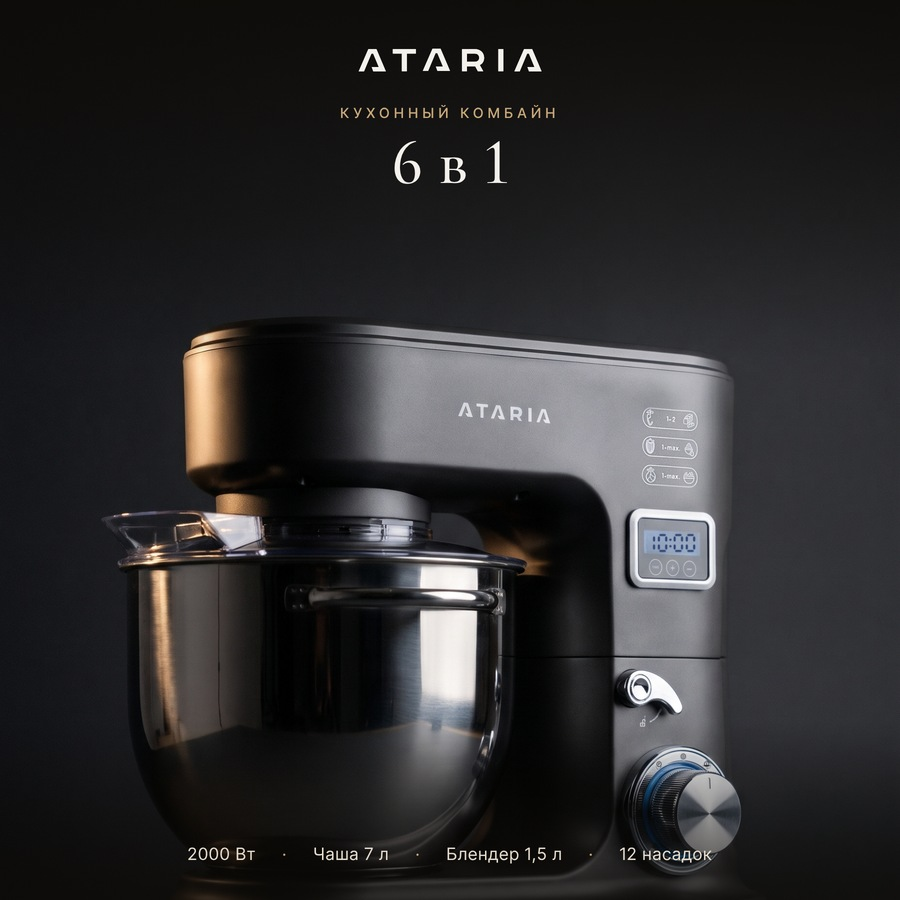
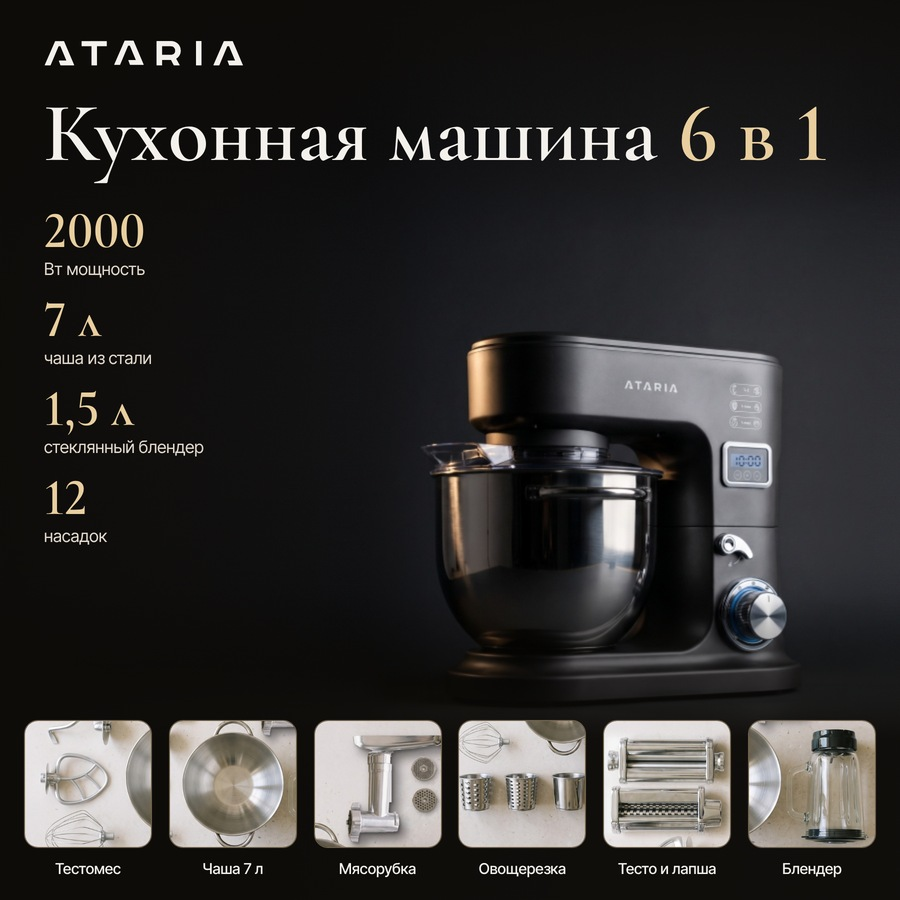
Kaspi card v2: full-bleed photos with large overlaid text, hero with all attachments, contents tile grid
Claude-Session: https://claude.ai/code/session_01JKBBHyD8hBKVpszWv2rPDb

diff --git a/brand/product/sm23/kaspi_cards/v2/_src/render2.js b/brand/product/sm23/kaspi_cards/v2/_src/render2.js
@@ -1,0 +1,6 @@
+const {chromium}=require('playwright');const fs=require('fs');const path=require('path');
+const OUT='/home/user/Ataria/brand/product/sm23/kaspi_cards/v2/';fs.mkdirSync(OUT,{recursive:true});
+(async()=>{const jobs=JSON.parse(fs.readFileSync('jobs2.json'));const b=await chromium.launch();
+const p=await b.newPage({viewport:{width:900,height:900},deviceScaleFactor:2});
+for(const j of jobs){await p.goto('file://'+path.resolve('q_'+j+'.html'));await p.waitForLoadState('networkidle');await p.evaluate(()=>document.fonts.ready);await p.waitForTimeout(300);await p.screenshot({path:'raw_'+j+'.png'});}
+await b.close();console.log('ok')})();

diff --git a/brand/product/sm23/kaspi_cards/v2/_src/gen2.py b/brand/product/sm23/kaspi_cards/v2/_src/gen2.py
@@ -1,0 +1,57 @@
+import json
+LOGO=open('logo.svg').read().split('?>',1)[1]
+LG=LOGO.replace('<svg ','<svg style="height:100%;width:auto;display:block" ',1)
+def logo(c,h): return f'<div style="color:{c};height:{h}px;display:flex">{LG}</div>'
+F='<link href="https://fonts.googleapis.com/css2?family=Cormorant+Garamond:ital,wght@0,500;0,600;1,500&family=Inter+Tight:wght@300;400;500;600&display=swap" rel="stylesheet">'
+CSS=F+'''<style>*{margin:0;box-sizing:border-box}body{width:900px;height:900px;background:#17140F;font-family:"Inter Tight";font-variant-numeric:lining-nums;-webkit-font-smoothing:antialiased;color:#F4F1EC}
+.lab{font-size:16px;letter-spacing:.3em;text-transform:uppercase;color:#D4B483;font-weight:500}
+.tt{font-family:"Cormorant Garamond";font-weight:600;line-height:.98}
+.g{display:grid;grid-template-columns:1fr 1fr;column-gap:34px;row-gap:16px}
+.it{border-top:1px solid rgba(212,180,131,.45);padding-top:12px}
+.it b{display:block;font-size:24px;font-weight:600;line-height:1.15}
+.it span{display:block;font-size:18px;font-weight:300;color:#E2D9CC;line-height:1.35;margin-top:4px}
+.ph{position:absolute;inset:0;width:900px;height:900px;object-fit:cover}
+</style>'''
+jobs=[]
+def page(n,body):
+    open(f'q_{n}.html','w').write(f'<!doctype html><meta charset="utf-8">{CSS}<body><div style="position:relative;width:900px;height:900px;overflow:hidden">{body}</div></body>'); jobs.append(n)
+def slide(n,img,pos,kicker,title,items,grad=0.62,dark=.9):
+    its=''.join(f'<div class="it"><b>{a}</b><span>{b}</span></div>' for a,b in items)
+    page(n,f'''<img class="ph" src="{img}" style="object-position:{pos}">
+<div style="position:absolute;inset:0;background:linear-gradient(180deg,rgba(18,15,11,{dark}) 0%,rgba(18,15,11,{dark*0.85:.2f}) {int(grad*55)}%,rgba(18,15,11,0) {int(grad*100)}%)"></div>
+<div style="position:absolute;left:50px;right:50px;top:44px;display:flex;justify-content:space-between;align-items:center"><div class="lab">{kicker}</div>{logo('#F4F1EC',20)}</div>
+<div style="position:absolute;left:50px;right:50px;top:96px">
+<div class="tt" style="font-size:70px">{title}</div>
+<div class="g" style="margin-top:26px">{its}</div></div>''')
+# hero
+tiles=[('t_tools','Тестомес'),('t_bowl','Чаша 7 л'),('t_grind','Мясорубка'),('t_drums','Овощерезка'),('t_roll','Тесто и лапша'),('t_blend','Блендер')]
+tl=''.join(f'<div style="width:128px;text-align:center"><img src="{f}.jpg" style="width:128px;height:128px;border-radius:14px;object-fit:cover;border:1px solid rgba(212,180,131,.5)"><div style="font-size:15px;font-weight:500;margin-top:7px">{t}</div></div>' for f,t in tiles)
+specs=[('2000','Вт мощность'),('7 л','чаша из стали'),('1,5 л','стеклянный блендер'),('12','насадок')]
+sp=''.join(f'<div style="margin-bottom:16px"><div class="tt" style="font-size:52px;color:#E9CF9F">{a}</div><div style="font-size:17px;font-weight:400;color:#E2D9CC;margin-top:2px">{b}</div></div>' for a,b in specs)
+page('01',f'''<img class="ph" src="x_m06_low.jpg">
+<div style="position:absolute;inset:0;background:linear-gradient(90deg,rgba(14,12,9,.92) 0%,rgba(14,12,9,.55) 30%,rgba(14,12,9,0) 50%),linear-gradient(180deg,rgba(14,12,9,.85) 0%,rgba(14,12,9,0) 26%,rgba(14,12,9,0) 66%,rgba(14,12,9,.95) 82%)"></div>
+<div style="position:absolute;left:44px;top:40px">{logo('#F4F1EC',26)}</div>
+<div style="position:absolute;left:44px;top:92px"><div class="tt" style="font-size:84px">Кухонная машина <span style="color:#E9CF9F">6 в 1</span></div></div>
+<div style="position:absolute;left:44px;top:206px">{sp}</div>
+<div style="position:absolute;left:24px;right:24px;bottom:22px;display:flex;justify-content:space-between">{tl}</div>''')
+# contents
+items=[('Тестомес','крюк, лопатка, венчик'),('Мясорубка','3 решётки + нож'),('Овощерезка','3 стальных барабана'),('Тестораскатка','8 положений толщины'),('Лапшерезка','ровная лапша для лагмана'),('Блендер','стеклянная колба 1,5 л')]
+tiles2=[('t_tools','Тестомес','крюк, лопатка, венчик'),('t_grind','Мясорубка','3 решётки + нож'),('t_drums','Овощерезка','3 стальных барабана'),('t_roll','Тесто и лапша','8 толщин + лапшерезка'),('t_blend','Блендер','стекло, 1,5 л'),('t_bowl','Чаша 7 л','нержавеющая сталь')]
+tg=''.join(f'<div><img src="{f}.jpg" style="width:250px;height:212px;object-fit:cover;border-radius:16px;border:1px solid rgba(212,180,131,.45)"><div style="font-size:24px;font-weight:600;margin-top:10px">{t}</div><div style="font-size:18px;font-weight:300;color:#E2D9CC;margin-top:2px">{d}</div></div>' for f,t,d in tiles2)
+page('02',f'''<div style="position:absolute;inset:0;background:radial-gradient(120% 80% at 50% 0%,#2A241C 0%,#17140F 60%)"></div>
+<div style="position:absolute;left:50px;right:50px;top:44px;display:flex;justify-content:space-between;align-items:center"><div class="lab">Комплектация</div>{logo('#F4F1EC',20)}</div>
+<div style="position:absolute;left:50px;right:50px;top:96px"><div class="tt" style="font-size:70px">Один вместо <i>шести</i></div>
+<div style="display:grid;grid-template-columns:repeat(3,250px);justify-content:space-between;row-gap:24px;margin-top:28px">{tg}</div></div>''')
+slide('03','x_m02_open.jpg','50% 50%','Замес и взбивание','Планетарное <i>вращение</i>',
+ [('Крюк — тесто','бешбармак, манты, баурсаки · скорость 1–2'),('Венчик — крем','безе, бисквит, сливки · 1–max'),('Лопатка — начинки','фарш, пюре, кремы · 1–max'),('Чаша 7 л','нерж. сталь, крышка от брызг')],grad=.62)
+slide('04','x_m09_grinder.jpg','50% 50%','Мясорубка','Свежий фарш <i>дома</i>',
+ [('3 решётки','мелкий, средний и крупный фарш'),('Стальной нож','крестовой, в комплекте'),('Насадки','для колбасок и кеббе'),('3 кг мяса','высокая производительность')],grad=.6)
+slide('05','x_m10_slicer.jpg','50% 50%','Овощерезка','Салат <i>за минуту</i>',
+ [('Мелкий нож','сыр, шоколад, овощи — стружка'),('Средний нож','овощи и фрукты соломкой'),('Нож-диск','ровные ломтики и кружочки'),('Цилиндр с толкателем','прозрачный, безопасный')],grad=.6)
+slide('06','x_m11b_noodles.jpg','50% 50%','Тестораскатка и лапшерезка','Тесто и лапша <i>сами</i>',
+ [('Тестораскатка','гладкие валики, 8 положений'),('Лапшерезка','зубчатые ножи, ровная лапша'),('Для чего','бешбармак, лагман, манты, лазанья'),('Боковой порт','ставится за секунды')],grad=.6)
+slide('07','x_m12_blender.jpg','50% 50%','Блендер','Смузи <i>и пюре</i>',
+ [('Колба 1,5 л','термостойкое стекло'),('Мерная шкала','точная дозировка'),('За секунды','смузи, пюре, соусы'),('Верхний порт','работает отдельно от чаши')],grad=.6)
+slide('08','x_m01_front.jpg','50% 50%','Характеристики','Сделан, <i>чтобы служить</i>',
+ [('Мощность 2000 Вт','справится с тугим тестом'),('6 скоростей + P','плавная регулировка ручкой'),('Таймер','дисплей, кнопки TIME + −'),('Гарантия до 2 лет','год + ещё год при регистрации')],grad=.6)
+json.dump(jobs,open('jobs2.json','w'))

diff --git a/brand/product/sm23/kaspi_cards/v2/_src/ext.py b/brand/product/sm23/kaspi_cards/v2/_src/ext.py
@@ -1,0 +1,20 @@
+import cv2, numpy as np, sys
+def ext(src, out, H, top, bottom_crop=0.0, dx=0):
+    im=cv2.imread(src); h,w=im.shape[:2]
+    im=im[:int(h*(1-bottom_crop))]; h=im.shape[0]
+    if 'm09' in src: im=im[:, :int(w*0.92)]
+    s=H/h; im=cv2.resize(im,(int(w*s),H),interpolation=cv2.INTER_AREA); h,w=im.shape[:2]
+    S=900*2; scale=2; im=cv2.resize(im,(w*scale,h*scale)); h,w=im.shape[:2]; top*=scale
+    left=(S-w)//2+dx*scale; right=S-w-left; bot=S-h-top
+    big=cv2.copyMakeBorder(im,max(top,0),max(bot,0),left,right,cv2.BORDER_REPLICATE)
+    if top<0: big=big[-top:]
+    big=big[:S]
+    blur=cv2.GaussianBlur(big,(0,0),40)
+    m=np.zeros((S,S),np.float32); y0=max(top,0); m[y0:y0+h, left:left+w]=1
+    m=cv2.GaussianBlur(cv2.erode(m,np.ones((61,61))),(0,0),25)[...,None]
+    res=(big*m+blur*(1-m)).astype(np.uint8)
+    noise=np.random.default_rng(1).normal(0,2.2,res.shape)
+    res=np.clip(res+noise*(1-m),0,255).astype(np.uint8)
+    cv2.imwrite(out,res,[cv2.IMWRITE_JPEG_QUALITY,93])
+for name,H,top,dx in [('m02_open',640,265,0),('m09_grinder',660,245,0),('m10_slicer',680,225,0),('m11b_noodles',680,225,0),('m12_blender',680,225,40),('m01_front',640,250,0),('m06_low',640,150,170)]:
+    ext(f'ph/{name}.jpg',f'x_{name}.jpg',H,top,dx=dx)
